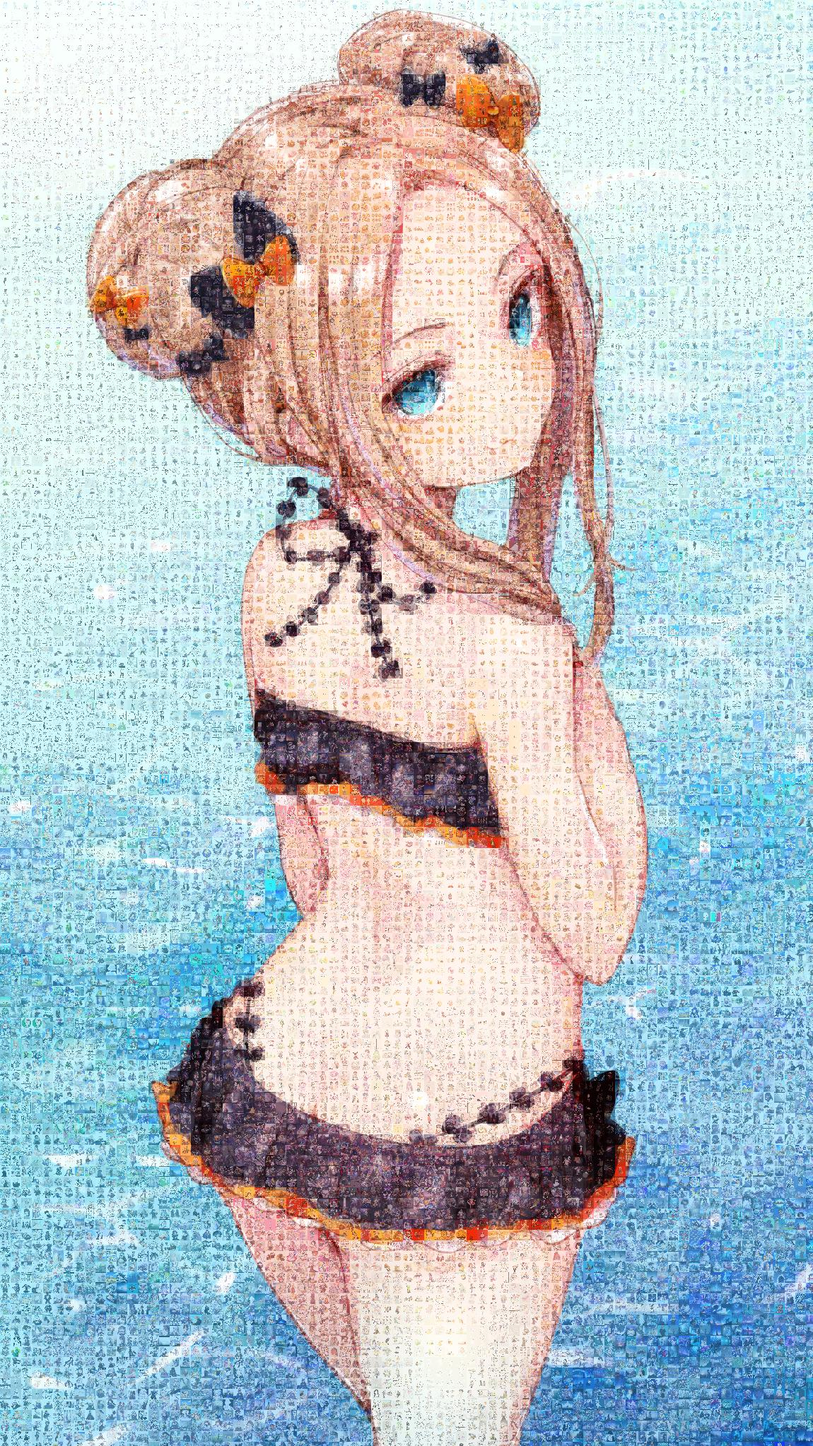
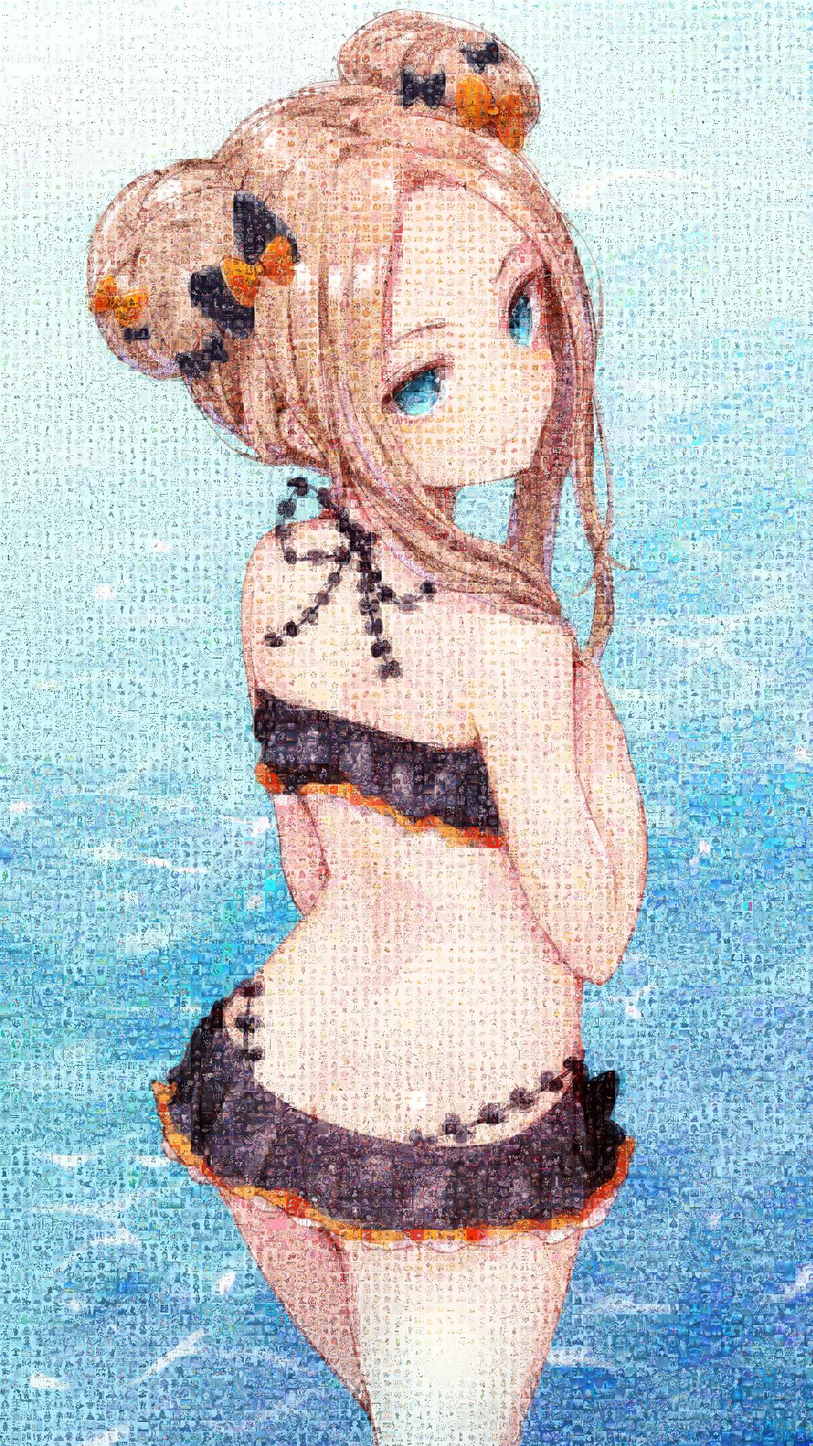
settings optimise

diff --git a/items.py b/items.py
@@ -102,12 +102,12 @@ class ImageDatabase(object):
         """
         print('Processing and saving files ...')
         start_time = time.time()
+        self.structure.remove_existing_files()
         self.structure.make_folders()
         self.images = []
         # pool = Pool(processes=os.cpu_count())
         total = len(self.files)
         # chunksize = utilities.get_chunksize(total)
-        print('\r >>> waiting for arrival of chunks ...')
         # for index, image_item in enumerate(pool.imap_unordered(ImageDatabase._process_and_save_file, zip(self.files, repeat(self.structure), repeat(self.width), repeat(self.height)), chunksize=chunksize)):
         #     self.images.append(image_item)
         #     print('\r >>> {} / {} => {}%'.format(index+1, total, math.ceil(((index+1) / total) * 100)), end='')
@@ -115,10 +115,11 @@ class ImageDatabase(object):
         files_chunks =[]
         start = 0
         while start < total-1:
-            end = start + 1000
+            end = start + settings.MAX_CACHE_PROCESSED_IMAGES
             files_chunks.append(self.files[start:end])
             start = end
 
+        total_chunks = len(files_chunks)
         for chunk_index, chunk in enumerate(files_chunks):
             processed_images = []
             total_files = len(chunk)
@@ -126,9 +127,8 @@ class ImageDatabase(object):
                 database_item = DatabaseImageItem(file)
                 processed_images.append(database_item)
                 self.images.append(ImageItem(database_item, self.width, self.height))
-                print('\r >>> {} / {} => {}%'.format(file_index+1, total_files, math.ceil((file_index+1) / total_files * 100)), end='')
+                print('\r >>> {} / {} => {}% ==> saved {} / {} chunks'.format(file_index+1, total_files, math.ceil((file_index+1) / total_files * 100), chunk_index+1, total_chunks), end='')
             utilities.save(processed_images, self.structure.get_list_name(chunk_index))
-            print(' ==> saved {} / {} chunks'.format(chunk_index+1, len(files_chunks)))
         print('done {}s'.format(time.time() - start_time))
 
     @staticmethod

diff --git a/utilities.py b/utilities.py
@@ -5,6 +5,7 @@ import os
 from multiprocessing import current_process, Process
 from threading import Thread
 from glob import glob
+import shutil
 
 import settings
 
@@ -35,8 +36,8 @@ class DatabaseStructure(object):
     """
 
     def __init__(self, folder):
-        self.folder = settings.DATABASE_FOLDER.format(folder=folder)
-        self.image_folder = self.folder + '/' + settings.IMAGES_FOLDER
+        self.folder = clean_filename(settings.DATABASE_FOLDER.format(folder=folder))
+        self.image_folder = self.folder + '/' + clean_filename(settings.IMAGES_FOLDER)
         self.postfix = settings.POSTFIX
 
     def get_image_filename(self, image_name):
@@ -53,6 +54,9 @@ class DatabaseStructure(object):
 
     def get_list_names(self):
         return glob(self.image_folder + '/*' + self.postfix)
+
+    def remove_existing_files(self):
+        shutil.rmtree(self.folder)
 
 def get_database_structure(folder):
     return DatabaseStructure(folder)

diff --git a/main.py b/main.py
@@ -56,6 +56,8 @@ def _load_database(folder, size, repeat, pieces_required):
             print('Failed to load existing database: {}'.format(database_folder))
         except ValueError as e:
             print(e)
+        except EOFError:
+            print('Data is corrputed in existing database {}'.format(database_folder))
 
     #
     # database folder does not exists or user wants to create new database

diff --git a/settings.py b/settings.py
@@ -1,5 +1,5 @@
-DATABASE_IMAGE_HEIGHT = 100
-DATABASE_IMAGE_WIDTH = 100
+DATABASE_IMAGE_HEIGHT = 500
+DATABASE_IMAGE_WIDTH = 500
 
 ALLOW_USE_EXISING_IF_SEEM_SAME = True
 
@@ -15,4 +15,4 @@ POSTFIX = 'data'
 
 DATABASE_FOLDER = '{folder}.' + POSTFIX
 
-MAX_CACHE_PROCESSED_IMAGES = 1000
+MAX_CACHE_PROCESSED_IMAGES = 500
